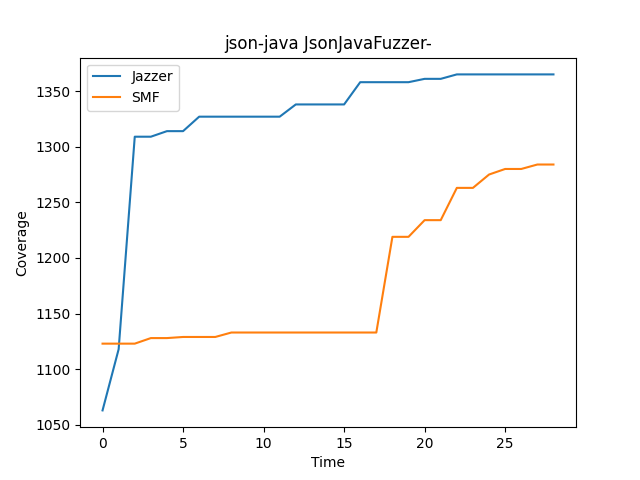
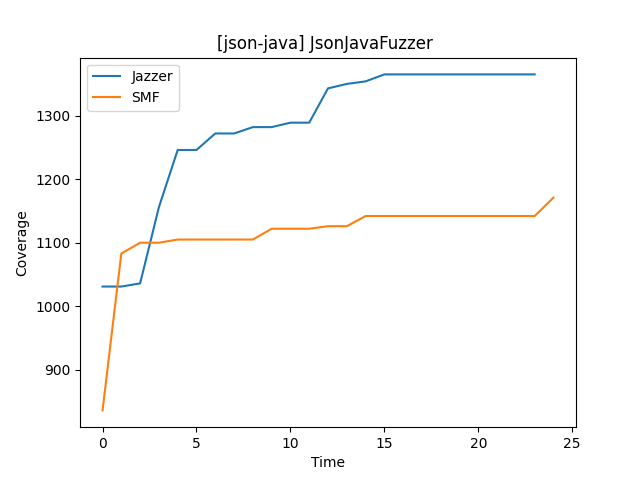
Update benchmark results. Update Jazzer build file(using our own jdk)

diff --git a/benchmark/fuzzer-finder/run_fuzzers.py b/benchmark/fuzzer-finder/run_fuzzers.py
@@ -227,7 +227,6 @@ if mode == "plot":
                 shutil.rmtree('./tmp_fuzzerOut')
 
                 os.chdir('../../fuzzer-finder/')
-
             plt.plot(coverage_over_time['Jazzer'], label='Jazzer')
             plt.plot(coverage_over_time['SMF'], label='SMF')
             plt.title(f'[{image_name}] {fuzzer} {suffix}')
@@ -235,3 +234,4 @@ if mode == "plot":
             plt.ylabel('Coverage')
             plt.legend()
             plt.savefig(f'../plots/{image_name}_{fuzzer}_{suffix}.png')
+            plt.clf()
